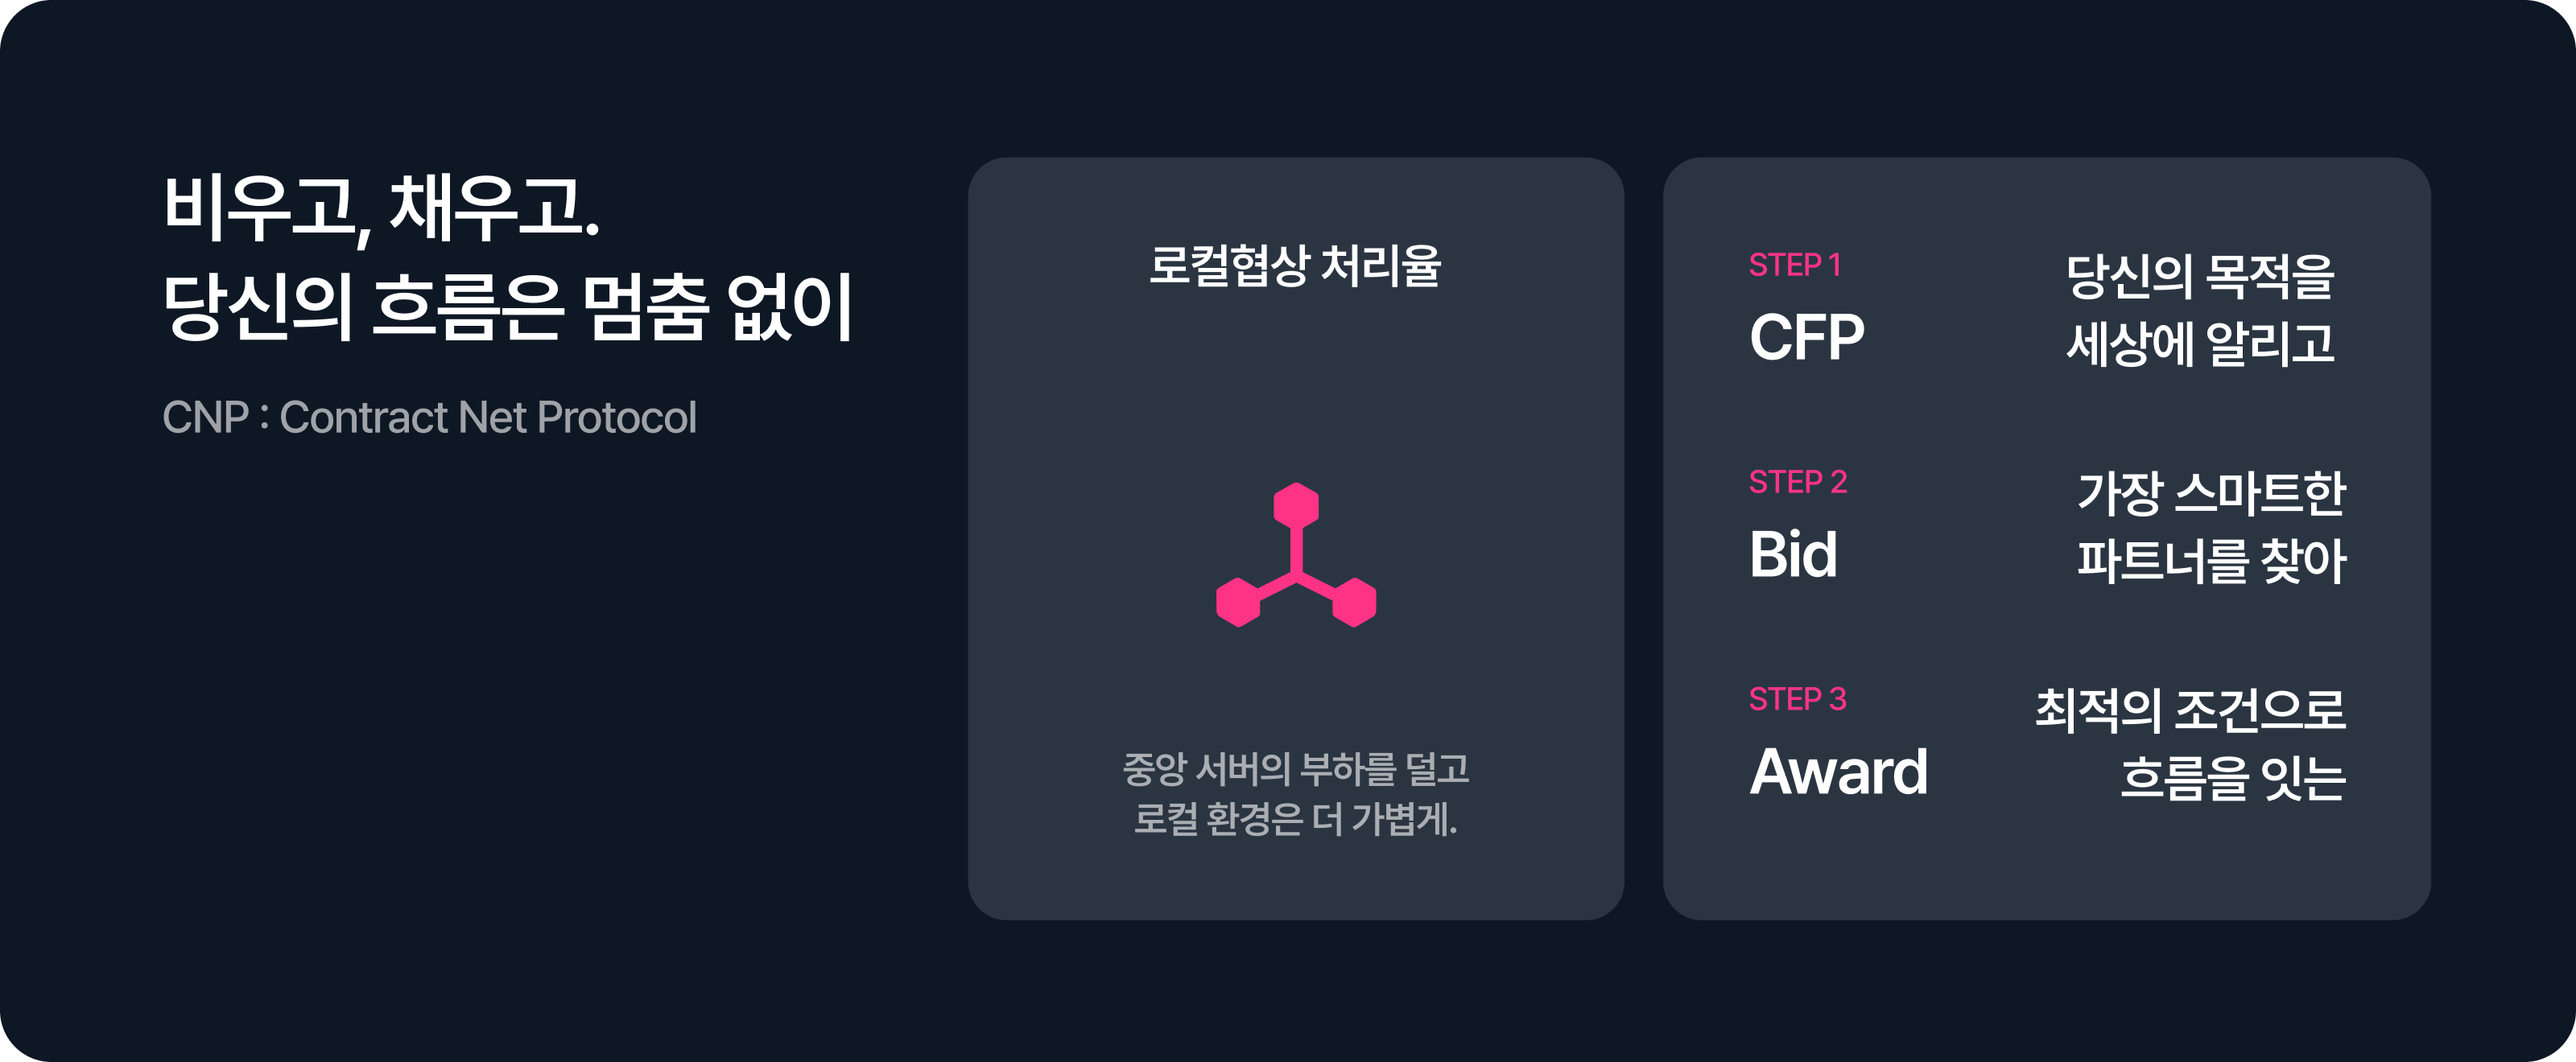
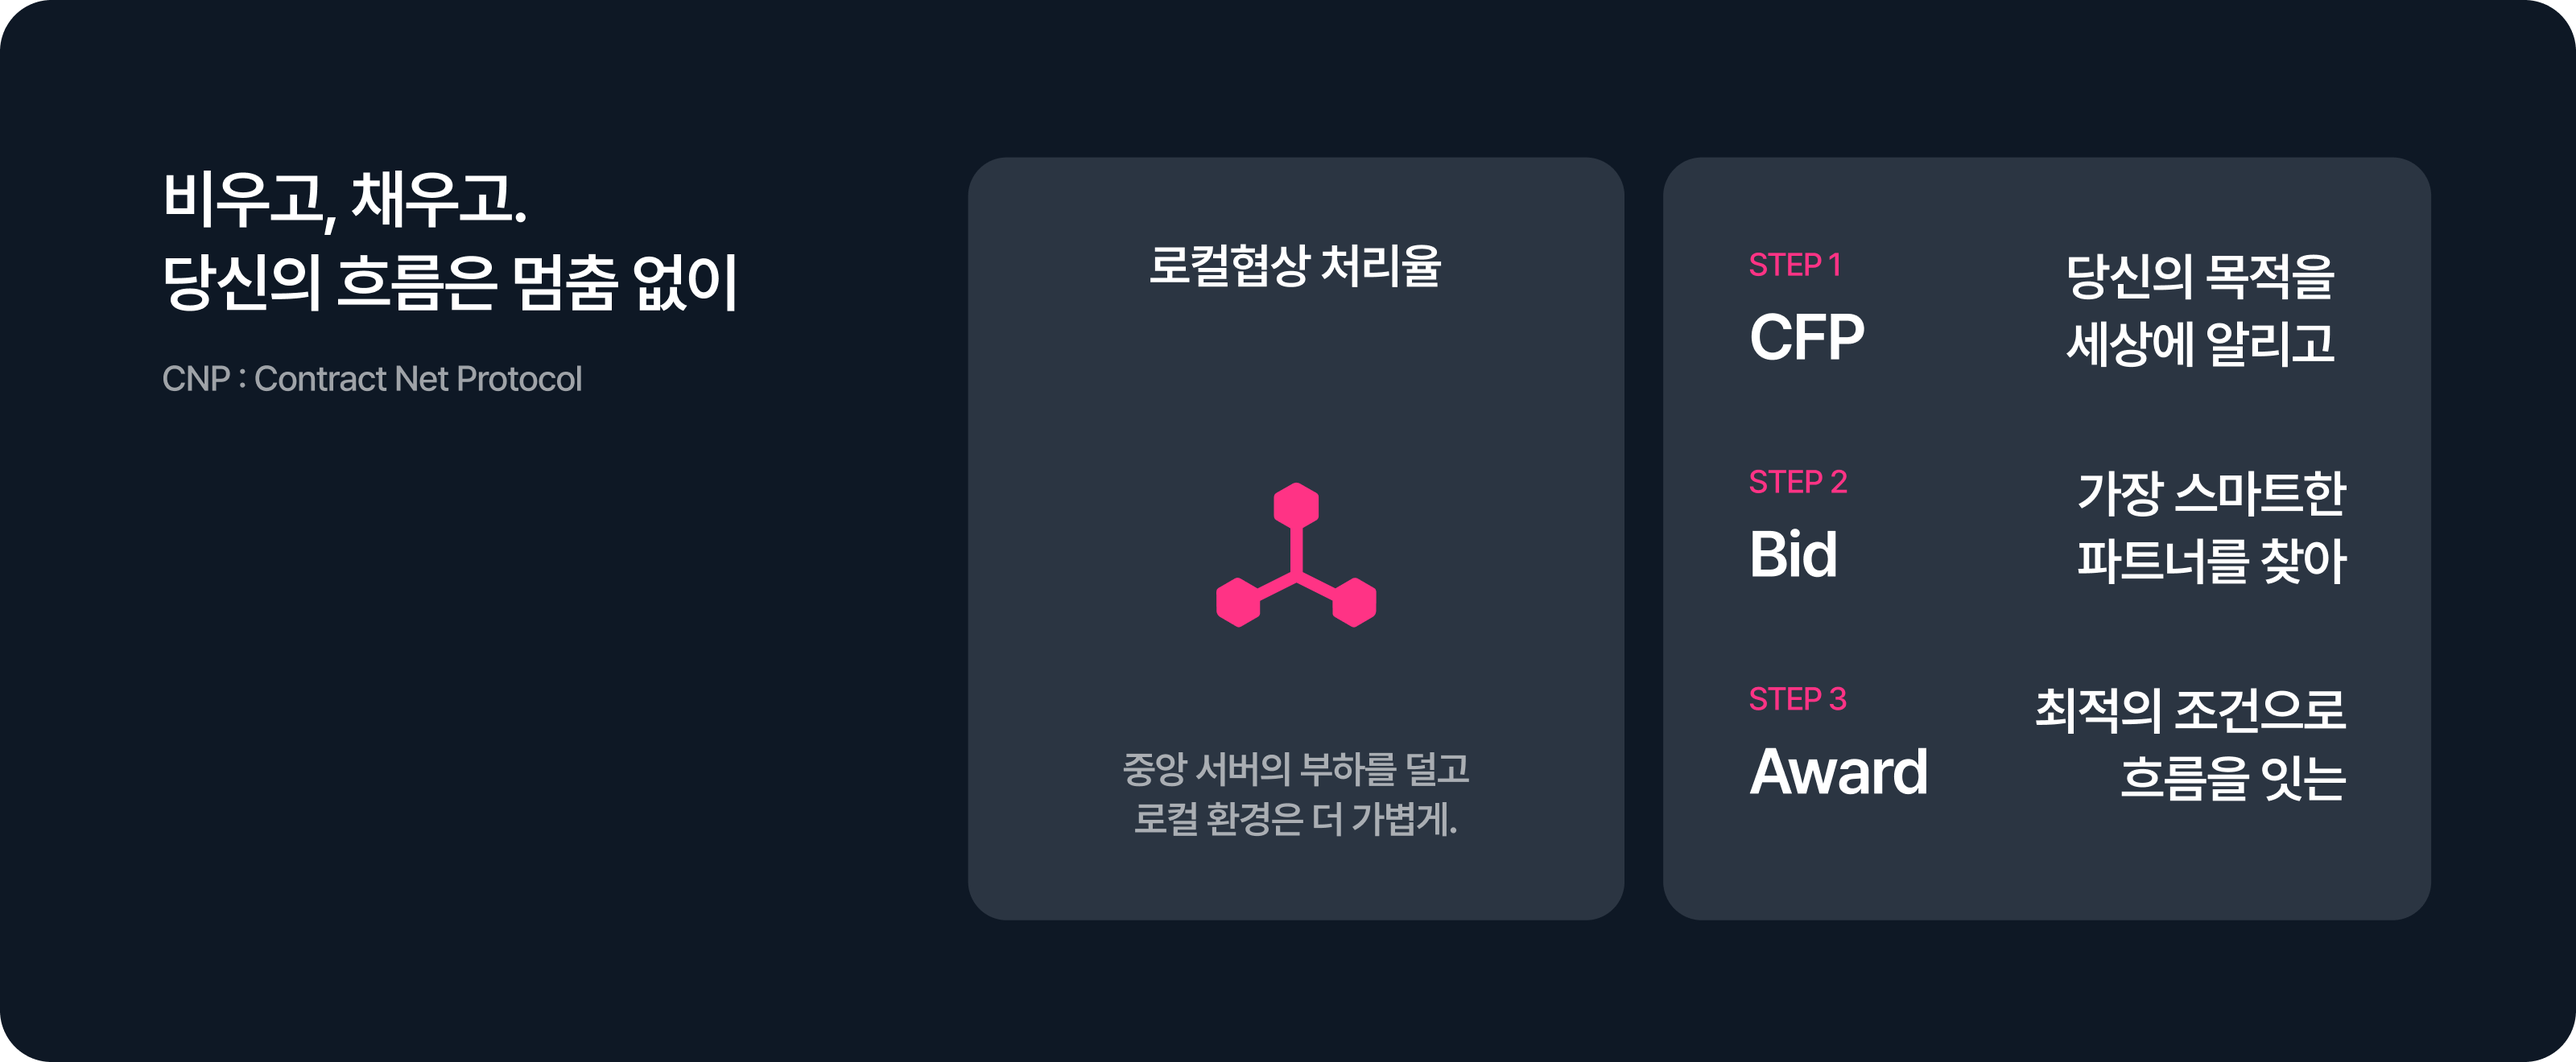
Shrink default cursor to 20x20 and refresh CNP/DCOP diagram images

Changed region(s): [[0.0625, 0.1553, 0.3438, 0.4038]]

diff --git a/app/components/ui/Cursor.module.css b/app/components/ui/Cursor.module.css
@@ -2,8 +2,8 @@
   position: fixed;
   top: 0;
   left: 0;
-  width: 25px;
-  height: 25px;
+  width: 20px;
+  height: 20px;
   border-radius: 50%;
   background: #ffffff;
   mix-blend-mode: difference;
